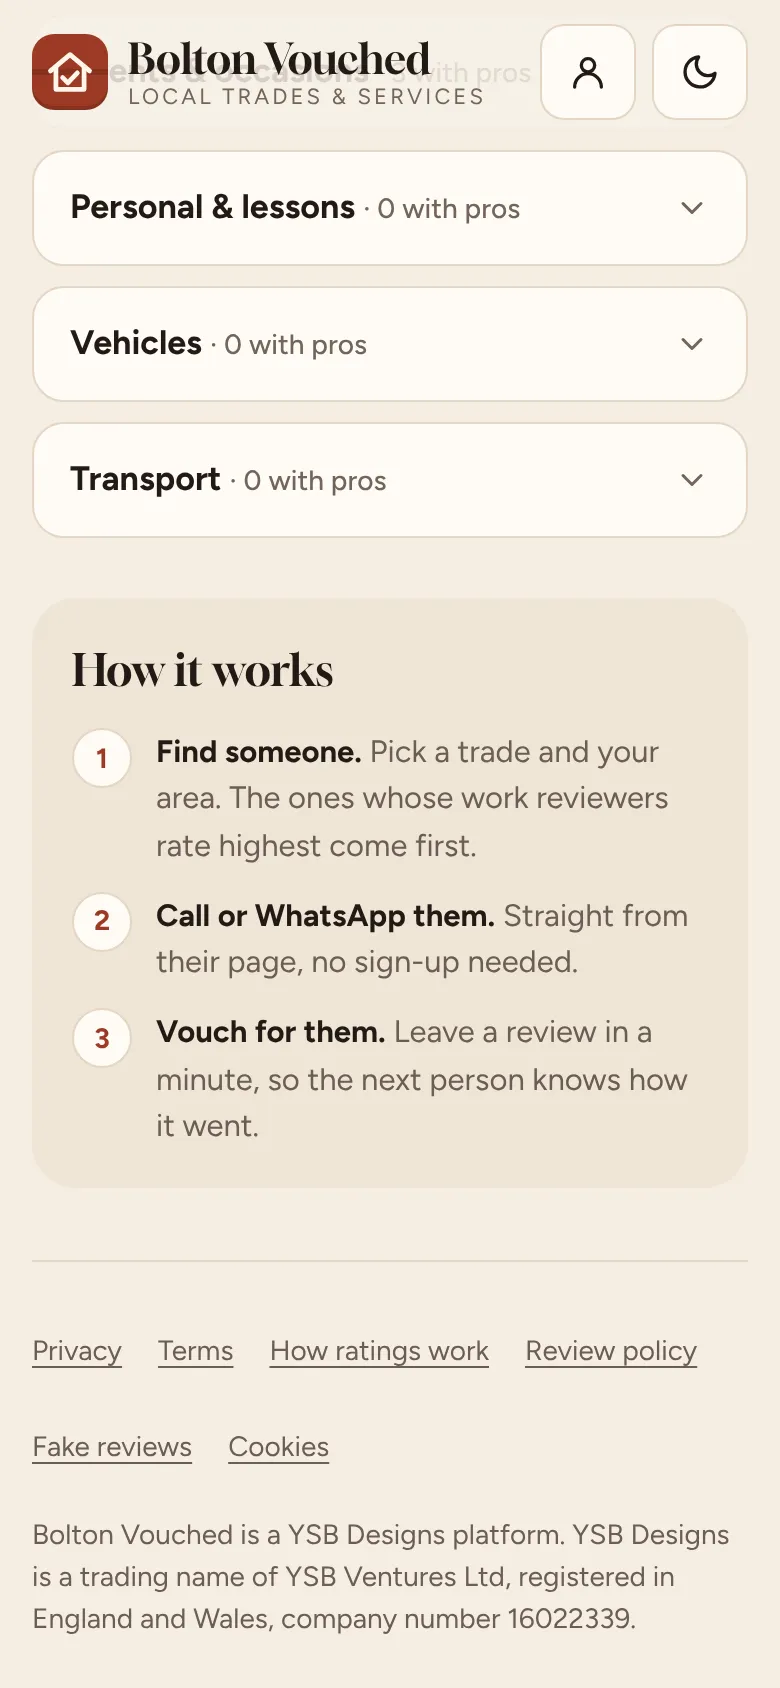
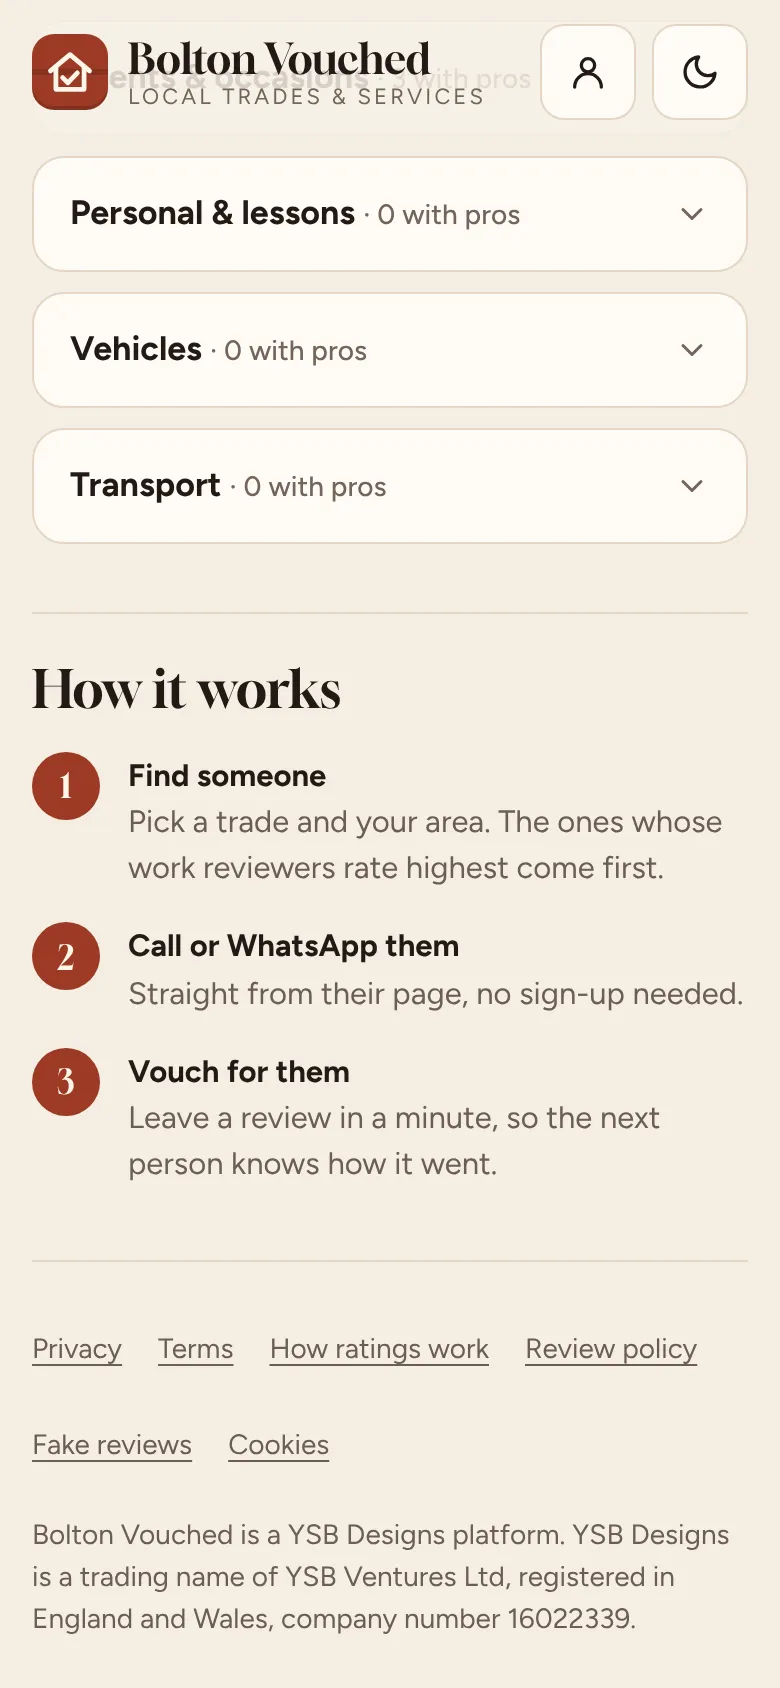
Home page: calm editorial layout (Option A), brick accent kept (#17)
Hero moves off the brick panel onto the page background with a serif
headline, the search card, and three trust pills. Popular trades become
compact icon-left tiles; How it works gets filled step numbers.
Marketing-site home screenshots and social image regenerated.

Claude-Session: https://claude.ai/code/session_01UbwBMeA46suPzcBVeSvvs2

diff --git a/app/globals.css b/app/globals.css
@@ -234,40 +234,30 @@ h1,h2,h3{text-wrap:balance}
   .empty{margin:0; padding:22px; text-align:center; border:1.5px dashed var(--line); border-radius:var(--r-lg); color:var(--ink-2)}
 
   /* ---------- home ---------- */
-  .hero{position:relative; margin-top:6px; border-radius:28px; padding:26px 22px 22px; color:var(--on-brick); background:var(--hero); overflow:hidden; isolation:isolate; box-shadow:var(--shadow)}
-  /* Running-bond bricks drifting one brick diagonally every 40s; inset is larger than the drift so no edge shows. */
-  .hero::before{content:""; position:absolute; inset:-80px; z-index:-1; opacity:.55; pointer-events:none;
-    background:
-     linear-gradient(rgba(0,0,0,.13) 2px, transparent 2px) 0 0/72px 26px,
-     linear-gradient(90deg, rgba(0,0,0,.13) 2px, transparent 2px) 0 0/72px 52px,
-     linear-gradient(90deg, rgba(0,0,0,.13) 2px, transparent 2px) 36px 26px/72px 52px;
-    animation:drift 40s linear infinite}
-  .hero::after{content:""; position:absolute; inset:0; z-index:-1; pointer-events:none; background:radial-gradient(120% 90% at 85% 0%, rgba(255,214,170,.28), transparent 60%), linear-gradient(180deg, transparent 40%, rgba(0,0,0,.22))}
-  .hero .eyebrow{font-size:12px; font-weight:700; letter-spacing:.16em; text-transform:uppercase; opacity:.85}
-  .hero h1{font-family:var(--display); font-weight:400; font-size:clamp(36px,10vw,44px); line-height:1.02; margin:10px 0; letter-spacing:-.015em}
-  .hero > p{margin:0 0 18px; font-size:16.5px; opacity:.9; max-width:30ch}
-  .search{display:flex; align-items:center; gap:10px; background:var(--surface); color:var(--ink); border-radius:18px; padding:6px 6px 6px 16px; box-shadow:0 10px 30px -12px rgba(0,0,0,.45); transition:box-shadow .3s var(--ease), transform .3s var(--ease)}
-  .search:focus-within{transform:translateY(-1px); box-shadow:0 0 0 4px color-mix(in srgb,var(--on-brick) 45%,transparent),0 14px 34px -12px rgba(0,0,0,.5)}
+  .hero{margin-top:14px}
+  .hero h1{font-family:var(--display); font-weight:400; font-size:clamp(38px,11vw,48px); line-height:1.04; margin:0 0 12px; letter-spacing:-.015em; color:var(--ink)}
+  .hero > p{margin:0 0 20px; font-size:17px; color:var(--ink-2); max-width:34ch}
+  .search{display:flex; align-items:center; gap:10px; background:var(--surface); color:var(--ink); border:1px solid var(--line); border-radius:18px; padding:6px 6px 6px 16px; box-shadow:0 10px 30px -16px rgba(60,30,15,.35); transition:box-shadow .3s var(--ease), transform .3s var(--ease)}
+  .search:focus-within{transform:translateY(-1px); border-color:var(--brick); box-shadow:0 0 0 4px color-mix(in srgb,var(--brick) 20%,transparent),0 14px 34px -16px rgba(60,30,15,.4)}
   .search > svg{width:20px; height:20px; color:var(--ink-3); flex:none}
   .search input{flex:1; min-width:0; min-height:44px; border:0; background:transparent; font:inherit; font-size:17px; color:var(--ink); padding:10px 0; outline:none}
   .search input::placeholder{color:var(--ink-3); transition:opacity .25s}
   .search button{flex:none; min-height:48px; border:0; background:var(--brick); color:var(--on-brick); border-radius:13px; padding:0 18px; font-weight:700; cursor:pointer}
   .search-msg p{margin:12px 2px 0; font-size:16px}
-  .search-msg a{color:inherit; font-weight:700; text-decoration:underline; text-underline-offset:3px; display:inline-flex; align-items:center; min-height:48px}
+  .search-msg a{color:var(--brick); font-weight:700; text-decoration:underline; text-underline-offset:3px; display:inline-flex; align-items:center; min-height:48px}
 
-  .trust{display:grid; grid-template-columns:repeat(3,1fr); gap:8px; margin:14px 0 0; padding:0; list-style:none}
-  .trust li{display:flex; flex-direction:column; gap:4px; font-size:12.5px; line-height:1.3; color:var(--ink-2); background:var(--surface); border:1px solid var(--line); border-radius:14px; padding:10px; min-width:0}
-  .trust svg{width:18px; height:18px; color:var(--sage)}
-  .trust strong{color:var(--ink); font-weight:700; font-size:13px}
+  .trust{display:flex; flex-wrap:wrap; gap:8px; margin:14px 0 0; padding:0; list-style:none}
+  .trust li{display:inline-flex; align-items:center; gap:7px; font-size:13.5px; font-weight:600; line-height:1.2; color:var(--ink); background:var(--surface); border:1px solid var(--line); border-radius:999px; padding:8px 12px 8px 10px}
+  .trust svg{flex:none; width:16px; height:16px; color:var(--brick)}
 
-  .tiles{display:grid; grid-template-columns:1fr 1fr; gap:12px}
-  .tile{display:flex; flex-direction:column; align-items:flex-start; gap:10px; min-width:0; text-align:left; text-decoration:none; color:inherit; background:var(--surface); border:1px solid var(--line); border-radius:var(--r-lg); padding:16px; box-shadow:var(--shadow)}
-  .tile .ic{width:46px; height:46px; border-radius:14px; background:var(--brick-tint); color:var(--brick); display:grid; place-items:center; transition:transform .35s var(--ease)}
-  .tile .ic svg{width:24px; height:24px}
-  @media (hover:hover){.tile:hover .ic{transform:rotate(-6deg) scale(1.06)}}
-  .tile b{font-size:17px; font-weight:700; line-height:1.2; overflow-wrap:anywhere}
-  .tile > span:last-child{font-size:14px; color:var(--ink-2)}
-  .tile .dot{display:inline-block; width:7px; height:7px; border-radius:50%; background:var(--sage); margin-right:6px; vertical-align:1px}
+  .tiles{display:grid; grid-template-columns:1fr 1fr; gap:10px}
+  .tile{display:flex; align-items:center; gap:12px; min-width:0; min-height:72px; text-align:left; text-decoration:none; color:inherit; background:var(--surface); border:1px solid var(--line); border-radius:var(--r-md); padding:12px}
+  .tile .ic{flex:none; width:40px; height:40px; border-radius:12px; background:var(--brick-tint); color:var(--brick); display:grid; place-items:center; transition:transform .35s var(--ease)}
+  .tile .ic svg{width:22px; height:22px}
+  @media (hover:hover){.tile:hover .ic{transform:rotate(-6deg) scale(1.06)} .tile:hover{border-color:color-mix(in srgb,var(--brick) 35%,var(--line))}}
+  .tile .tx{display:grid; gap:2px; min-width:0}
+  .tile b{font-size:16px; font-weight:700; line-height:1.2; overflow-wrap:anywhere}
+  .tile .tx > span{font-size:13.5px; color:var(--ink-2)}
 
   .groups{display:flex; flex-direction:column; gap:10px}
   details.group{background:var(--surface); border:1px solid var(--line); border-radius:var(--r-md); overflow:hidden}
@@ -278,12 +268,12 @@ h1,h2,h3{text-wrap:balance}
   details.group[open] summary svg{transform:rotate(180deg)}
   .chips{display:flex; flex-wrap:wrap; gap:8px; margin:0; padding:0 18px 18px; list-style:none}
 
-  .howto{margin-top:30px; background:var(--surface-2); border-radius:var(--r-lg); padding:20px}
-  .howto h2{font-family:var(--display); font-weight:400; font-size:22px; margin-bottom:12px}
-  .howto ol{margin:0; padding:0; list-style:none; display:grid; gap:12px; counter-reset:s}
-  .howto li{display:grid; grid-template-columns:30px 1fr; gap:12px; align-items:start; font-size:15.5px; color:var(--ink-2)}
-  .howto li::before{counter-increment:s; content:counter(s); width:30px; height:30px; border-radius:50%; background:var(--surface); border:1px solid var(--line); display:grid; place-items:center; font-weight:700; color:var(--brick); font-size:14px}
-  .howto li b{color:var(--ink)}
+  .howto{margin-top:34px; padding-top:24px; border-top:1px solid var(--line)}
+  .howto h2{font-family:var(--display); font-weight:400; font-size:26px; line-height:1.1; margin-bottom:16px}
+  .howto ol{margin:0; padding:0; list-style:none; display:grid; gap:16px; counter-reset:s}
+  .howto li{display:grid; grid-template-columns:34px 1fr; gap:14px; align-items:start; font-size:15.5px; color:var(--ink-2)}
+  .howto li::before{counter-increment:s; content:counter(s); width:34px; height:34px; border-radius:50%; background:var(--brick); color:var(--on-brick); display:grid; place-items:center; font-family:var(--display); font-size:17px}
+  .howto li b{display:block; color:var(--ink); font-weight:700}
 
   /* ---------- category ---------- */
   .back{display:inline-flex; align-items:center; gap:6px; min-height:48px; font-weight:600; color:var(--ink-2); text-decoration:none}
@@ -747,7 +737,6 @@ h1,h2,h3{text-wrap:balance}
 
 /* ---------- keyframes ---------- */
 @keyframes rise{from{transform:translateY(14px) scale(.985); opacity:.35} to{transform:none; opacity:1}}
-@keyframes drift{to{transform:translate(72px,52px)}}
 @keyframes rip{to{transform:scale(4); opacity:0}}
 @keyframes draw{to{stroke-dashoffset:0}}
 @keyframes fill{from{transform:scaleX(0)}}

diff --git a/components/home/TrustStrip.tsx b/components/home/TrustStrip.tsx
@@ -8,24 +8,21 @@ const icon = {
   "aria-hidden": true,
 };
 
-// Three reasons to trust the list, copy as the prototype.
+// Three short reasons to trust the list, as pills under the search.
 export function TrustStrip() {
   return (
-    <ul className="trust stagger" aria-label="Why trust it">
+    <ul className="trust" aria-label="Why trust it">
       <li>
         <svg {...icon}>
-          <path d="M17 21v-2a4 4 0 0 0-4-4H6a4 4 0 0 0-4 4v2" />
-          <circle cx="9.5" cy="7" r="4" />
-          <path d="M22 21v-2a4 4 0 0 0-3-3.9M16 3.1a4 4 0 0 1 0 7.8" />
+          <path d="m12 3 2.6 5.5 6 .7-4.4 4.1 1.2 5.9L12 16.3 6.6 19.2l1.2-5.9L3.4 9.2l6-.7L12 3Z" />
         </svg>
-        <strong>Real locals</strong>Recommended by the Bolton group
+        Real local reviews
       </li>
       <li>
         <svg {...icon}>
-          <path d="M12 22s8-4 8-10V5l-8-3-8 3v7c0 6 8 10 8 10Z" />
-          <path d="m9 12 2 2 4-4" />
+          <path d="M22 16.9v3a2 2 0 0 1-2.2 2 19.8 19.8 0 0 1-8.6-3.1 19.5 19.5 0 0 1-6-6A19.8 19.8 0 0 1 2.1 4.2 2 2 0 0 1 4.1 2h3a2 2 0 0 1 2 1.7c.1.9.4 1.8.7 2.7a2 2 0 0 1-.5 2.1L8 9.8a16 16 0 0 0 6 6l1.3-1.3a2 2 0 0 1 2.1-.4c.9.3 1.8.6 2.7.7a2 2 0 0 1 1.7 2Z" />
         </svg>
-        <strong>Checked</strong>ID and insurance shown when checked
+        Call or WhatsApp direct
       </li>
       <li>
         <svg {...icon}>
@@ -33,7 +30,7 @@ export function TrustStrip() {
           <path d="M16.5 7a4 4 0 0 0-8 1v12" />
           <path d="M5.5 13h8M5.5 20h13" />
         </svg>
-        <strong>Fair</strong>Nobody pays to rank
+        Nobody pays to rank
       </li>
     </ul>
   );

diff --git a/components/home/Hero.tsx b/components/home/Hero.tsx
@@ -1,12 +1,11 @@
 import { HomeSearch } from "@/components/home/HomeSearch";
 
-// Brick panel with a slowly drifting running-bond pattern (CSS ::before), headline and search.
+// Calm editorial hero on the page background: serif headline, one line of reassurance and the search.
 export function Hero({ categories }: { categories: { slug: string; name: string }[] }) {
   return (
     <section className="hero" aria-labelledby="hero-title">
-      <div className="eyebrow">Bolton · BL1 – BL7</div>
-      <h1 id="hero-title">Who&apos;s good round here?</h1>
-      <p>Plumbers, caterers, bouncy castles and more, recommended by the Bolton group.</p>
+      <h1 id="hero-title">Trades your neighbours vouch for.</h1>
+      <p>Plumbers, electricians, cleaners and more across Bolton, BL1 to BL7. Free to look, <span className="whitespace-nowrap">no sign-up.</span></p>
       <HomeSearch categories={categories} />
     </section>
   );

diff --git a/app/platform/page.tsx b/app/platform/page.tsx
@@ -52,17 +52,17 @@ export default async function Home() {
         <ol>
           <li>
             <span>
-              <b>Find someone.</b> Pick a trade and your area. The ones whose work reviewers rate highest come first.
+              <b>Find someone</b>Pick a trade and your area. The ones whose work reviewers rate highest come first.
             </span>
           </li>
           <li>
             <span>
-              <b>Call or WhatsApp them.</b> Straight from their page, no sign-up needed.
+              <b>Call or WhatsApp them</b>Straight from their page, no sign-up needed.
             </span>
           </li>
           <li>
             <span>
-              <b>Vouch for them.</b> Leave a review in a minute, so the next person knows how it went.
+              <b>Vouch for them</b>Leave a review in a minute, so the next person knows how it went.
             </span>
           </li>
         </ol>

diff --git a/components/home/CategoryTile.tsx b/components/home/CategoryTile.tsx
@@ -4,17 +4,16 @@ import { platformPath } from "@/lib/paths";
 
 export const localPros = (n: number) => `${n} local pro${n === 1 ? "" : "s"}`;
 
-// "Most asked for" tile: icon, trade name and how many live providers it has.
+// "Most asked for" tile: icon on the left, trade name and how many live providers it has.
 export function CategoryTile({ slug, name, liveCount }: { slug: string; name: string; liveCount: number }) {
   return (
     <Link href={platformPath("c", slug)} className="tile press lift">
       <span className="ic">
         <CategoryIcon slug={slug} />
       </span>
-      <b>{name}</b>
-      <span>
-        <i className="dot" aria-hidden="true" />
-        {localPros(liveCount)}
+      <span className="tx">
+        <b>{name}</b>
+        <span>{localPros(liveCount)}</span>
       </span>
     </Link>
   );

diff --git a/e2e/home.spec.ts b/e2e/home.spec.ts
@@ -6,9 +6,9 @@ import { expect, test } from "@playwright/test";
 
 test("hero shows the headline and the search", async ({ page }) => {
   await page.goto("/platform");
-  await expect(page.getByRole("heading", { level: 1 })).toHaveText("Who's good round here?");
+  await expect(page.getByRole("heading", { level: 1 })).toHaveText("Trades your neighbours vouch for.");
   await expect(page.getByRole("searchbox", { name: "What do you need?" })).toBeVisible();
-  await expect(page.getByText("Real locals")).toBeVisible();
+  await expect(page.getByText("Real local reviews")).toBeVisible();
   await expect(page.getByText("Nobody pays to rank")).toBeVisible();
 });
 

diff --git a/e2e/pwa.spec.ts b/e2e/pwa.spec.ts
@@ -5,7 +5,7 @@ import { expect, test } from "@playwright/test";
 test("/platform shows the directory home", async ({ page }) => {
   const res = await page.goto("/platform");
   expect(res?.status()).toBe(200);
-  await expect(page.getByRole("heading", { level: 1 })).toHaveText("Who's good round here?");
+  await expect(page.getByRole("heading", { level: 1 })).toHaveText("Trades your neighbours vouch for.");
   await expect(page.getByRole("banner").getByRole("link", { name: /^Bolton Vouched Local trades/ })).toHaveAttribute(
     "href",
     "/platform",

diff --git a/e2e/smoke.spec.ts b/e2e/smoke.spec.ts
@@ -3,5 +3,5 @@ import { expect, test } from "@playwright/test";
 test("home page shows the product name and the hero headline", async ({ page }) => {
   await page.goto("/platform");
   await expect(page.getByRole("banner")).toContainText("Bolton Vouched");
-  await expect(page.getByRole("heading", { level: 1 })).toHaveText("Who's good round here?");
+  await expect(page.getByRole("heading", { level: 1 })).toHaveText("Trades your neighbours vouch for.");
 });

diff --git a/app/(site)/page.tsx b/app/(site)/page.tsx
@@ -188,7 +188,7 @@ export default function ShowcasePage() {
             />
             <Phone
               shot="home"
-              alt="Sample listing: the Bolton Vouched home screen, Who's good round here?"
+              alt="Sample listing: the Bolton Vouched home screen, Trades your neighbours vouch for."
               className="c"
               sizes="(min-width: 880px) 290px, 44vw"
               eager
